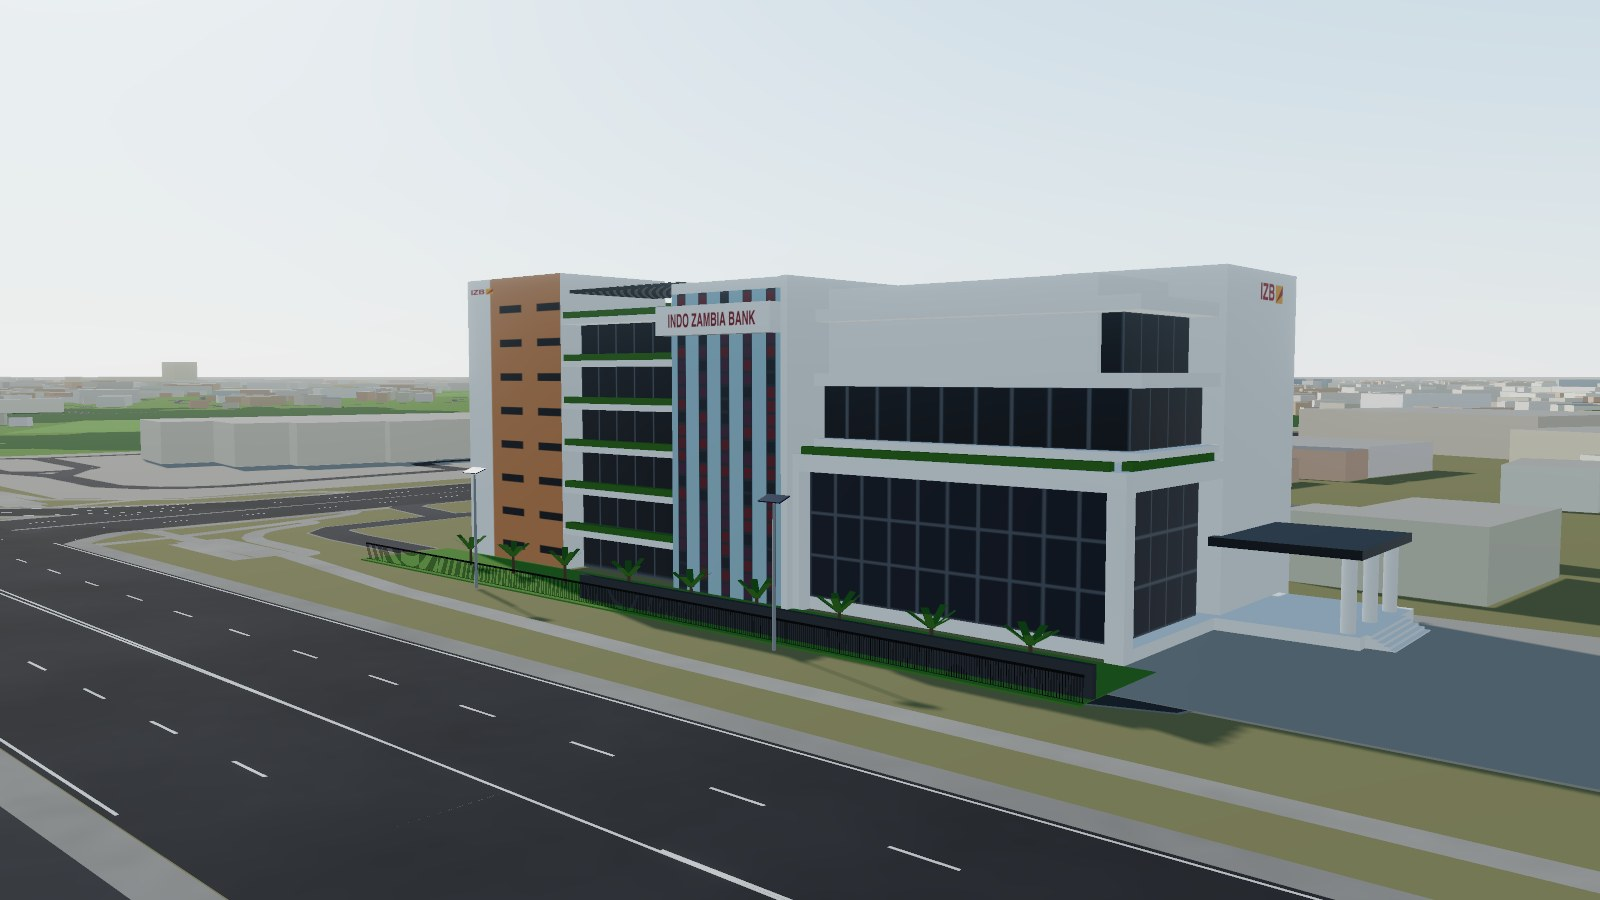
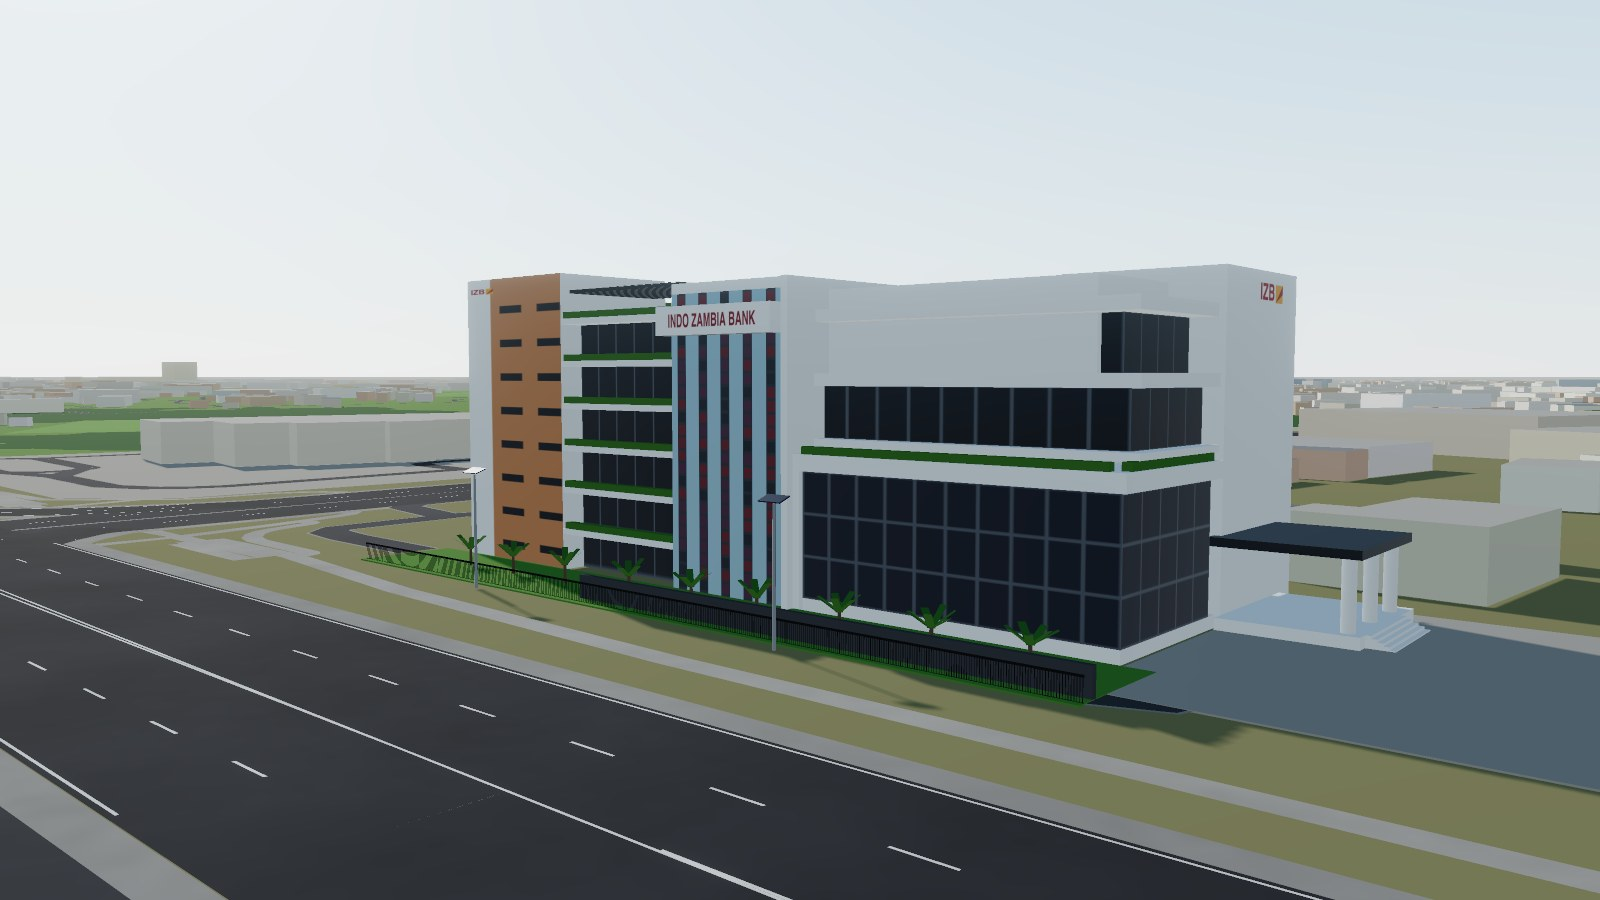
Indo Zambia Bank: no post at the glass box corner; the glazing meets there

Changed region(s): [[0.5, 0.5289, 0.7812, 0.7467]]

diff --git a/src/landmarks/indo-zambia-bank.js b/src/landmarks/indo-zambia-bank.js
@@ -220,10 +220,10 @@ export function buildIndoZambiaBank() {
   const [g0, g1] = GLASS, GD = 14;
   const gl = glow(curtain(10, 3, '#222c3d'));
   const glSide = glow(curtain(5, 3, '#222c3d'));
-  put(box(g0, g1 - 1.2, 1.2, GD, 0, 0.9, white), 'high');
-  put(box(g0 + 1.2, g1 - 1.2, 1.2, GD - 1, 0.9, 10, [white, glSide, roof, roof, white, gl]), 'high');
+  // the two glass walls meet at the corner with no post between them
+  put(box(g0 + 0.4, g1 - 1.2, 0.4, GD, 0, 0.9, white), 'high');
+  put(box(g0 + 0.4, g1 - 1.2, 0.4, GD - 1, 0.9, 10, [white, glSide, roof, roof, white, gl]), 'high');
   put(box(g1 - 1.2, g1, 0, GD, 0, 11.2, white), 'high'); // pier against the tower
-  put(box(g0, g0 + 1.2, 0, 1.2, 0, 11.2, white), 'high'); // corner post
   put(box(g0, g1, 0, GD, 10, 11.2, white), 'high'); // top slab
   hedgeOn(g0 + 1, g1 - 1, 0.2, 11.2);
   put(box(g0 + 0.2, g0 + 0.9, 1.2, GD - 1, 11.2, 11.75, hedge), 'high');
